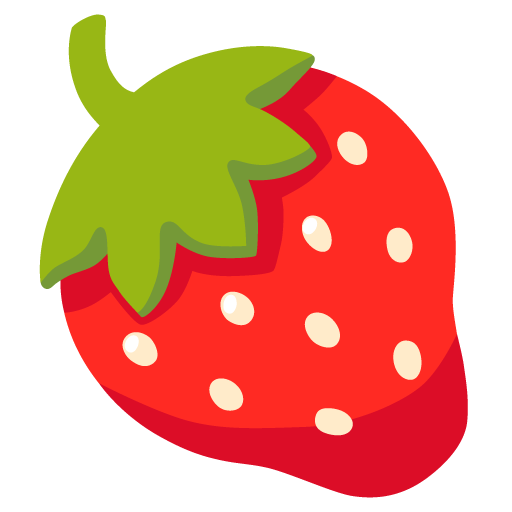
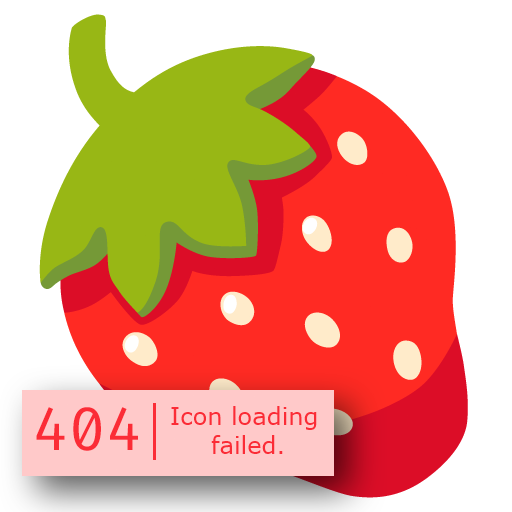
name search works; new 404 image; rename valuator to estimator

Changed region(s): [[0.0312, 0.75, 0.7188, 1.0]]

diff --git a/src/app/strawbtools/page.tsx b/src/app/strawbtools/page.tsx
@@ -1,7 +1,7 @@
 "use client";
 
 import { Themes } from "@/lib/Themes";
-import { Button, byId, Header, Input, Loader } from "@/lib/utils";
+import { Button, byId, H1, Header, Input, Loader } from "@/lib/utils";
 import { useParams, usePathname, useSearchParams } from "next/navigation";
 import { MouseEvent, useState, useEffect, ReactElement, ReactNode, FormEvent } from "react";
 import { ShipView } from "../networth/page";
@@ -24,7 +24,7 @@ export default function Page() {
     </a>
   }
 
-  let tabs = ["Hex search", "Hex search", "Leaderboard"];
+  let tabs = ["Hex search", "Name search", "Leaderboard"];
   let tabHTML : ReactElement<TabParams>[] = [];
   for (let i=0; i<tabs.length; i++) {
     states.push(useState<boolean>(false));
@@ -66,26 +66,46 @@ export default function Page() {
     let hexIn = inp.value;
     let hexes = hexIn.split(",");
     // for (let i=0; i<hexes.length; i++)
-    let outs = await loadPOST("byHex", JSON.stringify(hexes))
+    let outs = await loadPOST("byHex", hexes)
     let outHTML = [];
     for (let i=0; i<outs.length; i++) {
-      console.log(JSON.parse(outs[i]));
-      let rawDat = JSON.parse(outs[i]).shipData;
-      if (!rawDat) {
+      let rawDat = JSON.parse(outs[i]);
+      let sDat = rawDat.shipData;
+      if (!sDat) {
         outHTML.push(<ShipView row={hexes[i]} key={i}/>);
         continue;
       }
       let currRow = {
-        hex_code: rawDat.hex, 
+        hex_code: sDat.hex, 
         icon: "/404strawberry.png",
         load_time: "Unknown",
-        shipworth: rawDat.value,
-        placement: -1,
-        name: rawDat.name
+        shipworth: sDat.value,
+        placement: rawDat.rank,
+        name: sDat.name
       }
       outHTML.push(<ShipView row={currRow} key={i}/>)
     }
-    setSummaryHTML(outHTML);
+    setOutHex(outHTML);
+  }
+
+  async function processName() {
+    let inp = byId("nameIn") as HTMLInputElement;
+    let name = inp.value;
+    let outs = await loadPOST("NameSearch", {name:name});
+    let ships = outs.ships;
+    let outHTML = [];
+    for (let i=0; i<ships.length; i++) {
+      let currRow = {
+        hex_code: ships[i].shipData.hex, 
+        icon: "/404strawberry.png",
+        load_time: "Unknown",
+        shipworth: ships[i].shipData.value,
+        placement: ships[i].rank,
+        name: ships[i].shipData.name
+      }
+      outHTML.push(<ShipView row={currRow} key={i}/>);
+    }
+    setOutName(outHTML);
   }
 
   async function loadPOST(cmd:string, body:any) {
@@ -93,7 +113,7 @@ export default function Page() {
     let resp = await fetch("/api/shipprocessing?cmd="+cmd, 
       {
         method:"POST", 
-        body:body, 
+        body:JSON.stringify(body), 
         headers: {
           "Content-Type": "application/json",
         }
@@ -104,7 +124,8 @@ export default function Page() {
   }
 
   const [loading, setLoading] = useState<number>(0);
-  const [summaryHTML, setSummaryHTML] = useState<ReactNode>();
+  const [outHex, setOutHex] = useState<ReactNode>();
+  const [outName, setOutName] = useState<ReactNode>();
   return <div className="p-5 font-raleway">
     <title>Strawberry Clan Services: Data Dump Processing</title>
     <Header title="Data Dump Tools" subtitle="Strawberry Clan Services"/>
@@ -115,11 +136,17 @@ export default function Page() {
         <Button theme={Themes.BLUE} onClick={processHex}><Loader active={loading > 0} theme={Themes.BLUE}></Loader> Process</Button>
       </form>
       <div id="res1" className="flex flex-col gap-2">
-        {summaryHTML}
+        {outHex}
       </div>
     </div>
     <div className="tab hidden">
-      second div.
+      <form className="pt-3 pb-3 flex gap-2 w-full" onSubmit={(ev:FormEvent<HTMLFormElement>)=>{ev?.preventDefault()}}>
+        <Input type="text" id="nameIn" theme={Themes.BLUE} ctnClassName="grow" placeholder="Enter ship name or fragment..."/>
+        <Button theme={Themes.BLUE} onClick={processName}><Loader active={loading > 0} theme={Themes.BLUE}></Loader> Process</Button>
+      </form>
+      <div id="res1" className="flex flex-col gap-2">
+        {outName}
+      </div>
     </div>
     <div className="tab hidden">
       third div.

diff --git a/src/lib/bpprocessing.ts b/src/lib/bpprocessing.ts
@@ -140,7 +140,7 @@ export async function getSummaryJSON(bString:string, starterQ:boolean, subtractB
           cmd.count -= delta;
           sCmd.count -= delta;
           let iCt = itemCt.get(cmd.item);
-          itemCt.set(cmd.item, iCt - delta);
+          if (iCt != undefined) itemCt.set(cmd.item, iCt - delta);
         }
       }
     } // all sub commands
@@ -158,7 +158,7 @@ export async function getSummaryJSON(bString:string, starterQ:boolean, subtractB
         cmd.count -= delta;
         foundItem.ct -= delta;
         let iCt = itemCt.get(cmd.item);
-        itemCt.set(cmd.item, iCt - delta);
+        if (iCt != undefined) itemCt.set(cmd.item, iCt - delta);
       }
     }
     if (cmd.item == Item.PUSHER || cmd.item == Item.ITEM_HATCH || cmd.item == Item.LOADER_NEW || cmd.item == Item.LOADER) {
@@ -183,7 +183,7 @@ export async function getSummaryJSON(bString:string, starterQ:boolean, subtractB
     let it = key;
     if (it.recipe != null) {
       let inputs = it.recipe.input;
-      for (let i of inputs) {
+      for (let i of inputs!) {
         incr(matsCost, i.item, i.count * itemCt.get(key)!);
       }
     }

diff --git a/src/app/globalClient.tsx b/src/app/globalClient.tsx
@@ -24,7 +24,7 @@ export default function GlobalClient(props:{children:ReactNode}) {
       <Link onClick={()=>{setMenuActive(false)}} href="/" prefetch={false}>ProDSA Services Home</Link>
       <Link onClick={()=>{setMenuActive(false)}} href="/communitygiveback" prefetch={false}>ProDSA LI/NP Discount Program</Link>
       <Link onClick={()=>{setMenuActive(false)}} href="/rates" prefetch={false}>ProDSA Rates</Link>
-      <Link onClick={()=>{setMenuActive(false)}} href="/valuate" prefetch={false}>ProDSA Pricing and Insurance Estimator</Link>
+      <Link onClick={()=>{setMenuActive(false)}} href="/estimator" prefetch={false}>ProDSA Pricing and Insurance Estimator</Link>
       <Link onClick={()=>{setMenuActive(false)}} href="/editor" prefetch={false}>PrecisionEdit Blueprinting Tools</Link>
       <Link onClick={()=>{setMenuActive(false)}} href="/networth" prefetch={false}>Net Worth Calculator</Link>
       <ExternLink href="//dsc.gg/order-now" className="green text">Order from ProDSA Services now!</ExternLink>

diff --git a/src/app/estimator/page.tsx b/src/app/estimator/page.tsx
@@ -35,7 +35,7 @@ export default function Page() {
     setSummary(formData.html);
   }
   const [estimateType, setType] = useState<estimateTypes>();
-  const [summaryOut, setSummary] = useState<ReactNode>(<>Press "Valuate" to start...</>);
+  const [summaryOut, setSummary] = useState<ReactNode>(<>Press "Estimate" to start...</>);
   useEffect(()=>{
     valuate();
   }, [estimateType])
@@ -57,7 +57,7 @@ export default function Page() {
           <Option value={estimateTypes.BUILD}>Construction</Option>
           <Option value={estimateTypes.INSURANCE}>Insurance</Option>
         </Select>
-        <Button theme={Themes.GREEN}>Valuate!</Button>
+        <Button theme={Themes.GREEN}>Estimate pricing!</Button>
       </div>
     </form>
     <div className={`${Themes.BLUE.textCls} border-[2px] p-3 rounded-md`} id="formOut">

diff --git a/src/app/layout.tsx b/src/app/layout.tsx
@@ -47,7 +47,7 @@ export default function RootLayout({children}: Readonly<{children:React.ReactNod
         </Suspense>
         <footer className={`${Themes.BLUE.textCls} p-3 flex gap-2 flex-wrap justify-center font-raleway`}>
           <Link prefetch={false} className="blue active flex items-baseline" href="/">ProDSA Services</Link>
-          <Link prefetch={false} className="blue active" href="/valuate">Estimate pricing</Link> 
+          <Link prefetch={false} className="blue active" href="/estimator">Estimate pricing</Link> 
           <ExternLink className="green text active" href="//dsc.gg/order-now">Order ships from ProDSA Services today!</ExternLink>
           <span>Site design by <span className="green text">Jennifer Green</span></span>
         </footer>

diff --git a/src/lib/formcreator.tsx b/src/lib/formcreator.tsx
@@ -196,7 +196,7 @@ Medium ships (900 to 2,500 sq tiles): 25%
 Large ships (>2,500 sq tiles): 20%
 Insurance: 15%
 */
-export function buildCostForm(bpsumm:BPSummary|null, repairMode:boolean) {
+export function buildCostForm(bpsumm:BPSummary|null, repairMode:boolean=false) {
   if (!bpsumm || bpsumm.error) {
     return {cost: 0, form:"No blueprint summary.", html:errorHTML};
   }

diff --git a/next.config.ts b/next.config.ts
@@ -29,6 +29,15 @@ const nextConfig: NextConfig = {
       },
     ]
   },
+  async redirects() {
+    return [
+      {
+        source: '/valuate',
+        destination: '/estimator',
+        permanent: true,
+      },
+    ]
+  },
   /* config options here */
 };
 export default nextConfig;

diff --git a/api/index.py b/api/index.py
@@ -788,8 +788,10 @@ async def init(cmd, arg, body):
            output["shipData"].append(ship);
         return (json.dumps(output))
     elif (cmd == 'NameSearch'):
-        data = text_findshipbyname(arg)
-        return (data)
+        iStr = json.loads(body)
+        dbgLog(iStr['name'])
+        data = text_findshipbyname(iStr['name'])
+        return data
     elif (cmd == 'leaderboard'):
         return (json.dumps(getLeaderboardNetworth(arg)));
     elif (cmd == 'byHex'):
